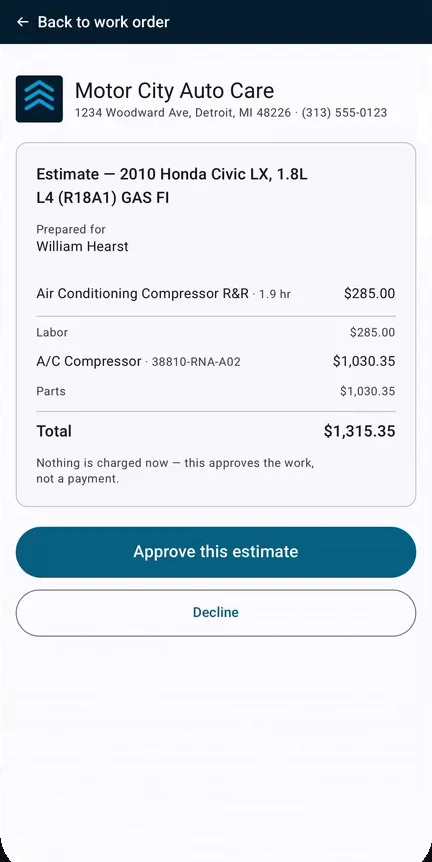
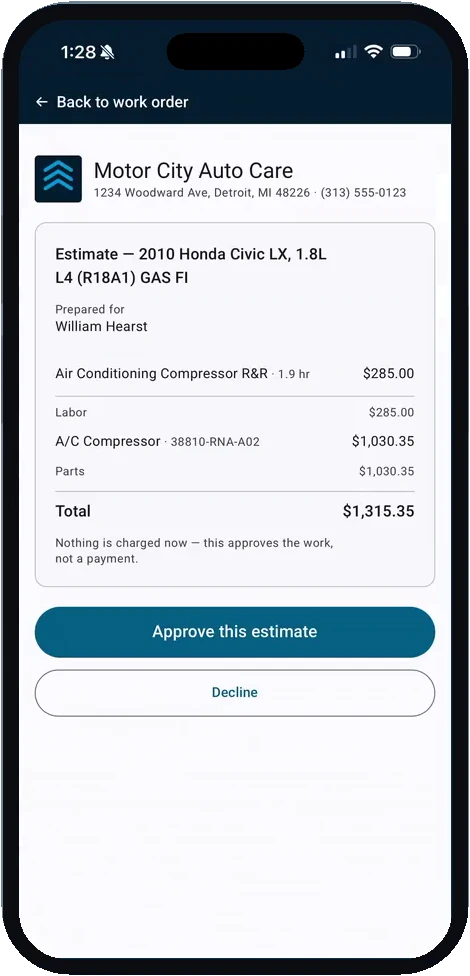
/building: MotorAdvisor phone shots framed in the iPhone, not bare screens
Joe: a naked screenshot looks less natural than the phone itself. The demo
video already shows the app inside a real iPhone frame, so each shot is now
the whole device (bezel, status bar, screen) at 470×976, with everything
outside the bezel's rounded outline made transparent so it sits on the dark
route without a rectangle of the video's blue behind it.

Two pixel edits, both recorded in public/shots/README.md: the iOS
screen-recording pill (wide, red dot) is painted out in the status bar's
own colour and a standard-width Dynamic Island drawn in its place — on the
approval frame that colour is the page's navy, not white; and the seeded
customer email stays painted over as before.

CSS: the device carries its own outline, so the phone images drop the
figure's border and radius on both grounds.

Changed region(s): [[0.0, 0.0, 1.0, 1.0]]

diff --git a/app/building/page.tsx b/app/building/page.tsx
@@ -487,9 +487,9 @@ export default async function BuildingPage() {
                 job moves: the question, the verdict, the customer's decision.
                 Provenance and the vendor-naming rule: public/shots/README.md */}
             <div className="bl-phones">
-              <img src="/shots/motoradvisor-phone-ask.webp" alt="MotorAdvisor chat on a phone: the owner's complaint in plain language, and the advisor's reply naming the four A/C bulletins to start from" width={432} height={862} loading="lazy" />
-              <img src="/shots/motoradvisor-phone-verdict.webp" alt="MotorAdvisor work order on a phone: the repair-or-replace card, a $285 repair against a $1,095 to $2,320 trade-in value, marked worth repairing" width={432} height={862} loading="lazy" />
-              <img src="/shots/motoradvisor-phone-approve.webp" alt="The shop-branded estimate page on the customer's phone: labor, parts, a $1,315.35 total, and an Approve this estimate button" width={432} height={862} loading="lazy" />
+              <img src="/shots/motoradvisor-phone-ask.webp" alt="MotorAdvisor chat on a phone: the owner's complaint in plain language, and the advisor's reply naming the four A/C bulletins to start from" width={470} height={976} loading="lazy" />
+              <img src="/shots/motoradvisor-phone-verdict.webp" alt="MotorAdvisor work order on a phone: the repair-or-replace card, a $285 repair against a $1,095 to $2,320 trade-in value, marked worth repairing" width={470} height={976} loading="lazy" />
+              <img src="/shots/motoradvisor-phone-approve.webp" alt="The shop-branded estimate page on the customer's phone: labor, parts, a $1,315.35 total, and an Approve this estimate button" width={470} height={976} loading="lazy" />
             </div>
             <figcaption>MotorAdvisor on the phone it actually runs on &mdash; one job in the demo shop. The complaint goes in as the customer said it; the estimate is weighed against what the car is worth; and the customer approves it on their own phone, in the shop&rsquo;s name.</figcaption>
           </figure>

diff --git a/app/globals.css b/app/globals.css
@@ -842,13 +842,14 @@ nav.nav-dark {
 .building .bl-shot img { border-color: rgba(249, 246, 240, 0.18); }
 .building .bl-shot figcaption { color: rgba(249, 246, 240, 0.65); }
 
-/* Phone shots: three portrait screens side by side on desktop. Below 640px
-   three columns would be ~100px each and unreadable, so the row becomes a
-   horizontal scroll-snap strip showing one screen and the edge of the next —
-   the same gesture the app itself uses. Each screen is 432×862, so the
-   rounded corners are the screenshot's own; the border is ours. */
+/* Phone shots: three iPhones side by side on desktop. Below 640px three
+   columns would be ~100px each and unreadable, so the row becomes a
+   horizontal scroll-snap strip showing one phone and the edge of the next —
+   the same gesture the app itself uses. Each image is the device itself
+   (470×976, transparent outside the bezel), so no border or radius of ours:
+   the phone's own outline does that job on either ground. */
 .bl-phones { display: grid; grid-template-columns: repeat(3, 1fr); gap: 16px; }
-.bl-phones img { border-radius: 14px; }
+.bl-phones img, .building .bl-phones img { border: 0; border-radius: 0; }
 @media (max-width: 640px) {
   .bl-phones {
     display: flex; gap: 12px;

diff --git a/public/shots/README.md b/public/shots/README.md
@@ -17,25 +17,36 @@ seeded too (Motor City Auto Care, William Hearst and the rest are fictional).
 `G:\My Drive\MotorAdvisor\Demo\MotorAdvisor-demo-full-1080p-v2.mp4` (21 Sep
 2026) is a 1920×1080 walkthrough in which every scene is the installed
 home-screen app inside an iPhone frame on the left and a caption on the right.
-Each shot is one frame from it, cropped to the phone's screen below the status
-bar:
+Each shot is one frame from it, cropped to the whole device — bezel, status
+bar and screen — at 470×976, with everything outside the bezel's rounded
+outline made transparent so the phone sits on the dark route without a
+rectangle of the video's blue behind it. The caption panel to the right of the
+phone carries the `SHOP INTELLIGENCE POWERED BY MOTOR.COM` lockup, which the
+vendor-naming rule below forbids on a public page; the crop excludes it.
 
 ```
-ffmpeg -ss <t> -i <video> -frames:v 1 -vf "crop=432:862:206:130" out.png
-ffmpeg -i out.png -c:v libwebp -quality 88 out.webp      # ~5× smaller than PNG
+# frame → device crop, alpha mask on a 68px-radius rounded rect,
+# recording pill → Dynamic Island (see below)
+ffmpeg -ss <t> -i <video> -frames:v 1 frame.png
+ffmpeg -i frame.png -vf "crop=470:976:187:50,format=rgba,geq=..." device.png
+ffmpeg -i device.png -c:v libwebp -quality 88 out.webp    # ~5× smaller than PNG
 ```
 
-The crop starts at the app bar on purpose. The status bar above it carries the
-iOS screen-recording indicator (red pill), and the caption panel to the right
-of the phone carries the `SHOP INTELLIGENCE POWERED BY MOTOR.COM` lockup,
-which the vendor-naming rule below forbids on a public page.
+**Two edits to the pixels, disclosed here.**
 
-**One redaction, disclosed here.** The approval frame shows the seeded
-customer's email, `bob@gmail.com`, under "Prepared for". That is a seed value
-that could be a real person's address, so the one line is painted over with
-the card's own background colour (`#F8F7FC`, sampled from the frame). Nothing
-else in any shot is altered. The right fix is a seed email on `example.com`
-in `apps/web/lib/demoSeed.ts` in the motor repo, then a recapture.
+1. The status bar in every frame shows the iOS screen-recording indicator: a
+   wide black pill with a red dot where the Dynamic Island sits. It is painted
+   out (white, the status bar's own colour) and a standard-width Dynamic
+   Island drawn in its place (138×36 at the screen's centre). Time, signal,
+   Wi-Fi and battery are the frame's own.
+2. The approval frame shows the seeded customer's email, `bob@gmail.com`,
+   under "Prepared for". That is a seed value that could be a real person's
+   address, so the one line is painted over with the card's own background
+   colour (`#F8F7FC`, sampled from the frame). The right fix is a seed email
+   on `example.com` in `apps/web/lib/demoSeed.ts` in the motor repo, then a
+   recapture.
+
+Nothing else in any shot is altered.
 
 Four iPhone screenshots of the Jobs board from 18 Sep (`IMG_2931`–`2934`,
 1320×2868) exist in Downloads; only 2931 is clean. The others were taken while
